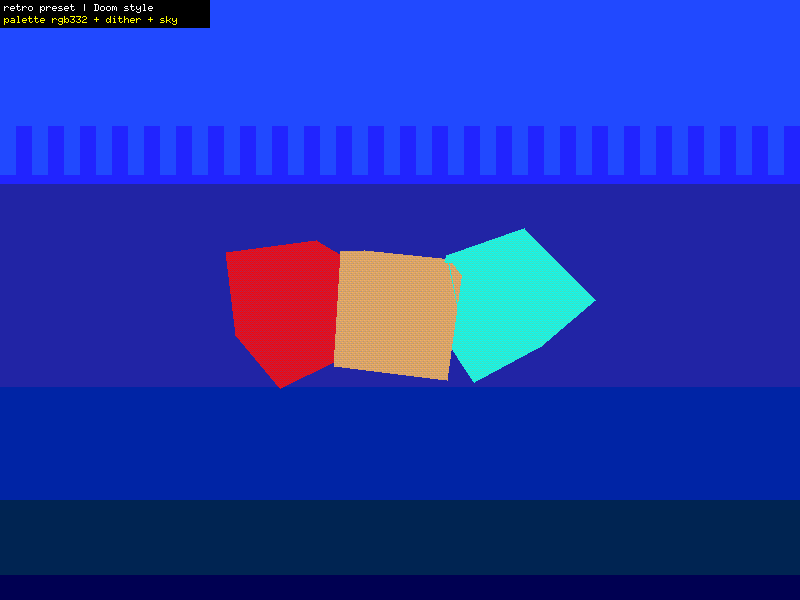
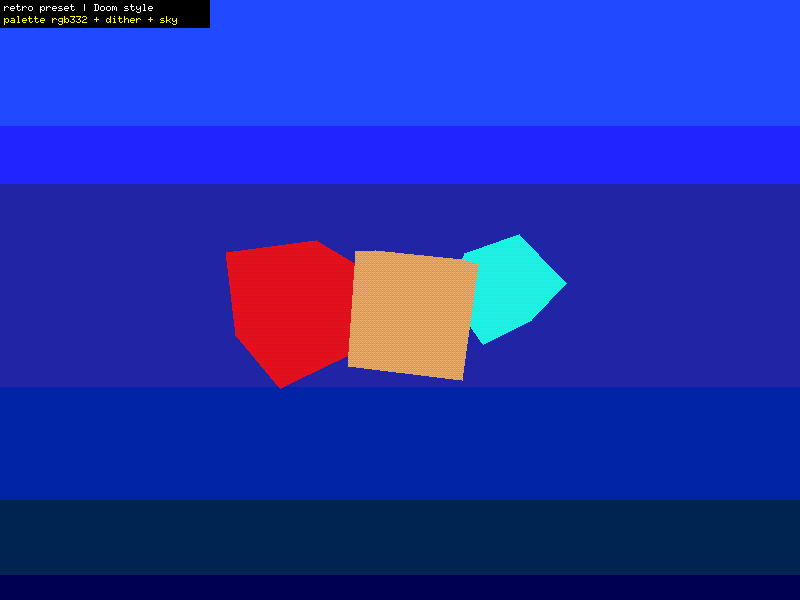
Fix retro screenshot composition and sky banding artifacts.
Override Doom preset sky striping for the capture scene and reposition the center/cyan cubes so the screenshot no longer shows floorboard-like sky artifacts or unintended cyan overlap.

diff --git a/examples/screenshots.rs b/examples/screenshots.rs
@@ -23,7 +23,7 @@ use embedded_3dgfx::physics::{Collider, PhysicsWorld, RigidBody, sync_body_to_me
 use embedded_3dgfx::renderer::FrameCtx;
 use embedded_3dgfx::softbody::SoftBody;
 use embedded_3dgfx::texture::{Texture, TextureManager};
-use embedded_3dgfx::{K3dengine, RetroStyle};
+use embedded_3dgfx::{K3dengine, RetroStyle, SkyConfig};
 use embedded_graphics::mono_font::{MonoTextStyle, ascii::FONT_6X10};
 use embedded_graphics::prelude::Primitive;
 use embedded_graphics::primitives::{PrimitiveStyleBuilder, Rectangle};
@@ -1049,6 +1049,12 @@ fn capture_retro_doom_preset() {
     let mut engine = K3dengine::new(W as u16, H as u16);
     engine.clear_caps();
     engine.apply_retro_style(RetroStyle::doom_walkable());
+    // Keep the retro palette/dither look, but avoid high-contrast sky striping
+    // that reads as floorboard artifacts in static screenshots.
+    engine.set_sky(SkyConfig {
+        stripe_strength: 0,
+        ..SkyConfig::retro_blue()
+    });
     engine.camera.set_position(Point3::new(0.0, 1.8, 9.5));
     engine.camera.set_target(Point3::new(0.0, 0.2, 0.0));
 
@@ -1095,14 +1101,15 @@ fn capture_retro_doom_preset() {
     left.set_color(Rgb565::CSS_RED);
 
     let mut center = K3dMesh::new(geom);
-    center.set_position(0.0, 0.0, 0.0);
+    center.set_position(0.4, 0.0, 0.0);
     center.set_scale(1.6);
     center.set_attitude(0.2, 1.5, 0.1);
     center.set_render_mode(RenderMode::Solid);
     center.set_color(Rgb565::new(30, 42, 8));
 
     let mut right = K3dMesh::new(geom);
-    right.set_position(3.2, 0.0, 0.0);
+    // Keep cyan visibly behind the center cube in this composition.
+    right.set_position(4.6, 0.0, -4.0);
     right.set_scale(1.5);
     right.set_attitude(0.9, 0.4, 0.3);
     right.set_render_mode(RenderMode::Solid);
